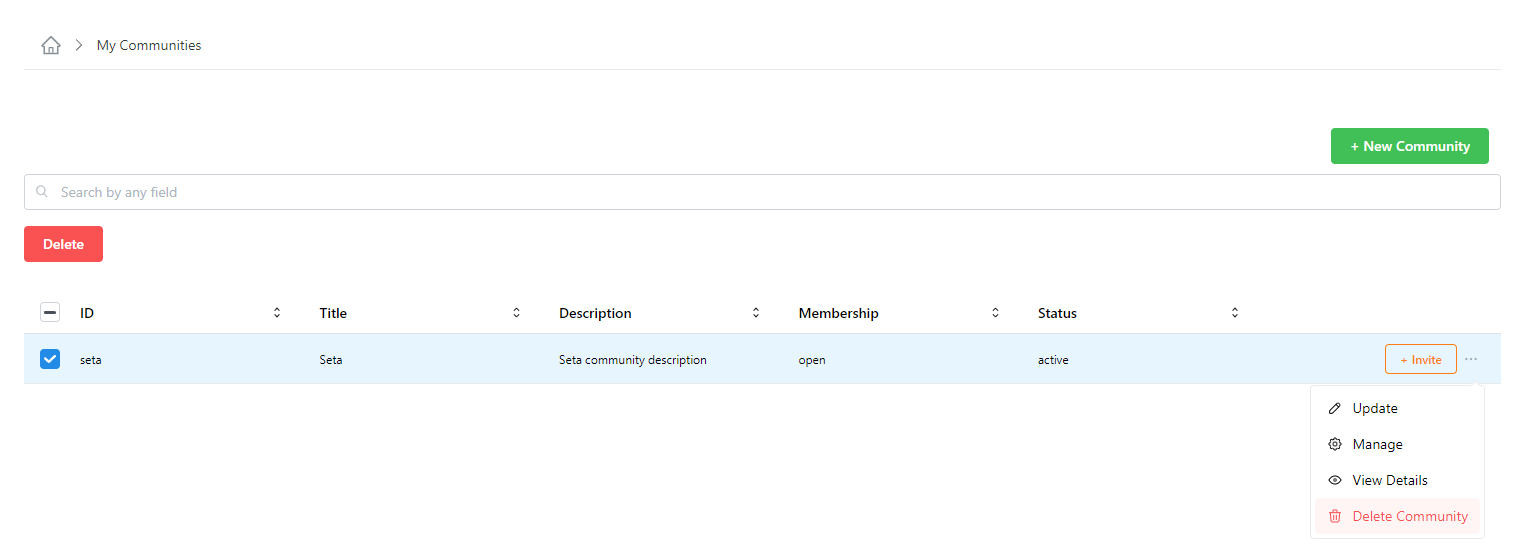
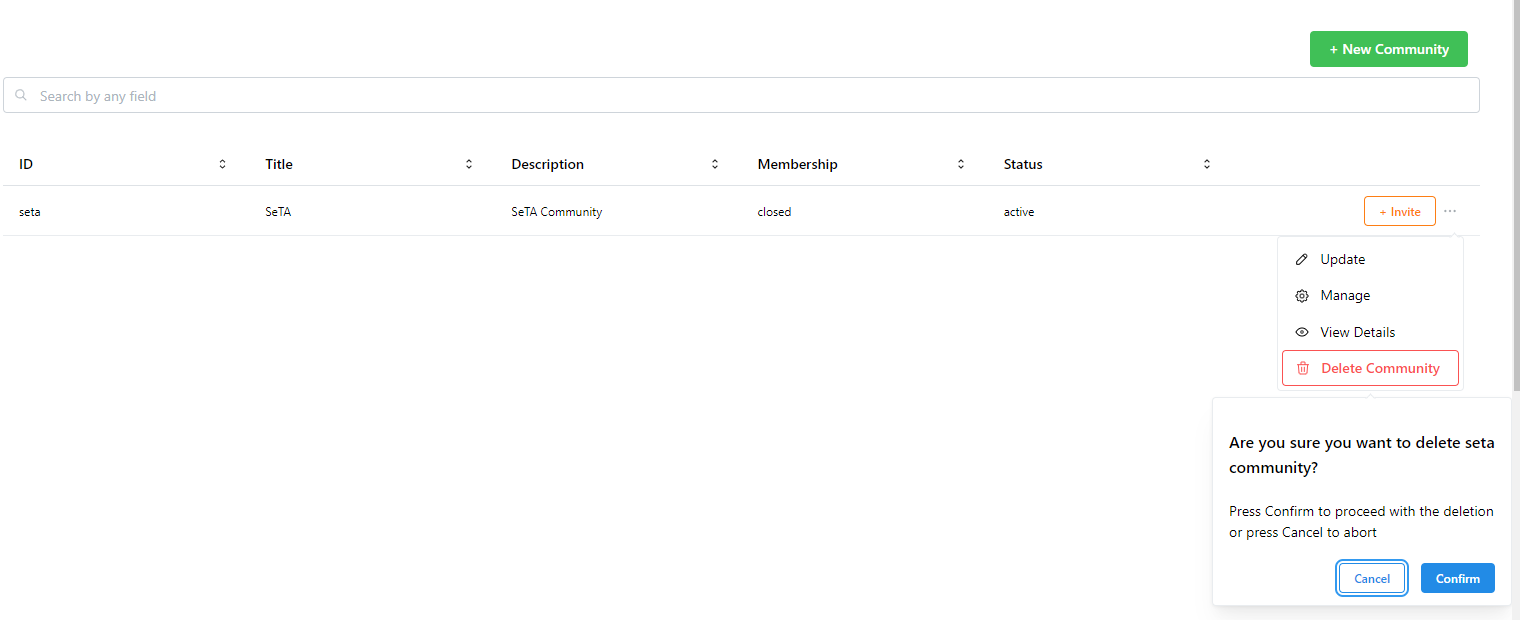
update of page communities.md

diff --git a/seta-doc/docs/user-guide/communities.md b/seta-doc/docs/user-guide/communities.md
@@ -31,7 +31,8 @@ On **Manage** panel it is possible to access to:
 1. From the side menu click on ^^Discovery^^ -> ^^Communities^^.       
 2. You can either enter in the search bar the name of the Community you are looking for or select from the Community list.      
 3. Click on the button ^^Join^^.     
-4. If the *Membership* status is *closed*, a pop-up window will appear to sent a message, the join button changes to ^^Pending^^ .
+4. If the *Membership* status is *closed*, a pop-up window will appear to sent a message to ask for the request.
+5. The status changes to *pending* and the join button changes to ^^PENDING^^ until the Community manager approves or reject the request to join. If the request is approved, the status changes to *membership* and the button changes to ^^LEAVE^^, if the request is rejected the status changes to *rejected* and the button changes to ^^REJECTED^^.
 5. If the *Membership* status is *opened*, it is possible to join without sending a request.  
     
 
@@ -44,6 +45,19 @@ On **Manage** panel it is possible to access to:
   ![Image title](../img/seta_communities_pending_join.png)
   <figcaption>Join Community</figcaption>
 </figure>
+
+<figure markdown>
+  ![Image title](../img/join_community_approved.png)
+  <figcaption>Join Community (*approved*)</figcaption>
+</figure>
+
+
+<figure markdown>
+  ![Image title](../img/join_community_rejected.png)
+  <figcaption>Join Community (*rejected*)</figcaption>
+</figure>
+
+
     
 ### Create a Community
                      
@@ -208,7 +222,8 @@ Only **users with rights to edit** can change the Community name.
 3. Click in the three dots at the right side of each Community and select the option ^^Manage^^.       
 4. In the next window, in section ^^Pending Join Requests^^ you can see the pending requests.                     
 5. By Clicking in the *pen* icon, you can change the status to: *approved*.
-6. Click ^^Send^^.           
+6. Click ^^Send^^.      
+
  
 
 <figure markdown>
@@ -257,7 +272,8 @@ Only **users with rights to edit** can change the Community name.
 1. From the side menu click on ^^Manage^^ -> ^^My Resources^^.  
 2. You can either enter in the search bar the name of the Resource you are looking for or select from the Resources list.  
 3. After you select the Resource, click in the three dots at the right side of each Resource and select the option ^^View Details^^.      
-4. In the next window, click on button ^^Delete^^ on the right bottom.      
+4. In the next window, click on button ^^Delete^^ on the right bottom.  
+5. A confirm window will appear to delete the resource.    
 
 
 <figure markdown>
@@ -277,6 +293,7 @@ Only **users with rights to edit** can change the Community name.
 2. You can either enter in the search bar the name of the Community you are looking for or select from the Communities list.  
 3. After you select the Community, click on button ^^Delete^^ on the left top of the Communities list.
 4. It is also possible to delete the Community by clicking in the three dots at the right side of each Community and select the option ^^Delete Community^^. 
+5. A confirm window will appear to delete the Community.
 
 
 
